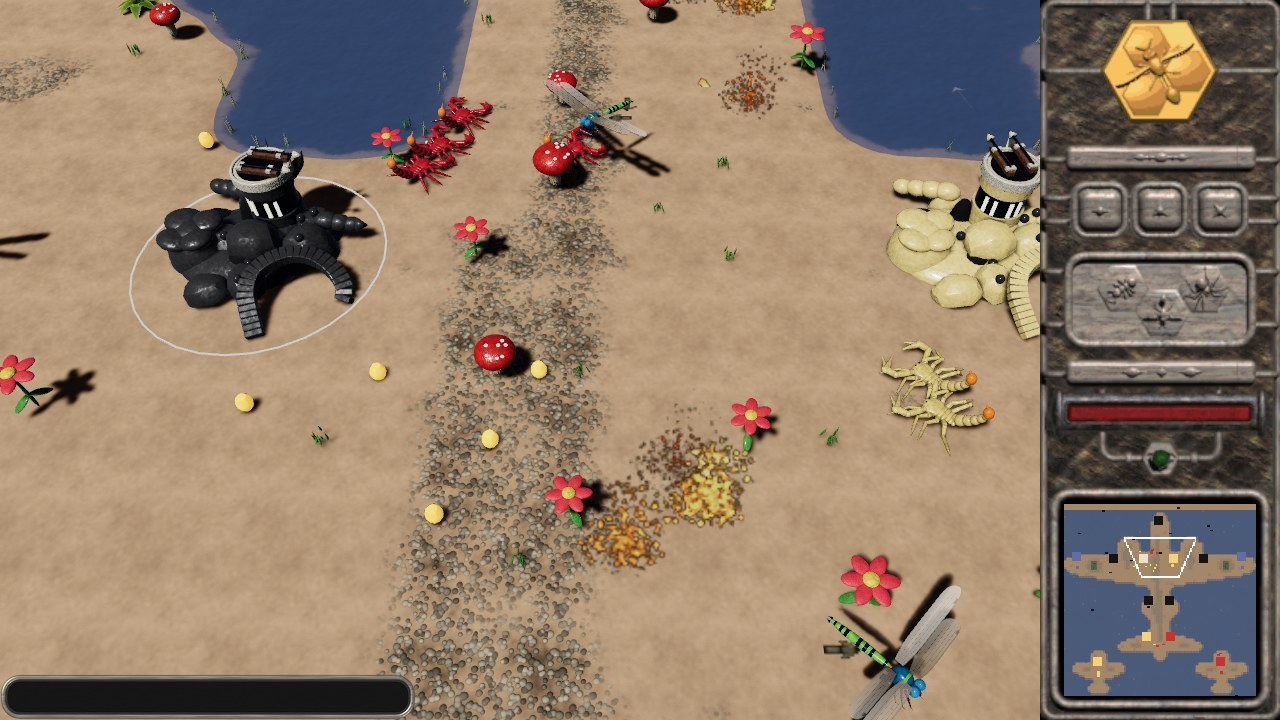
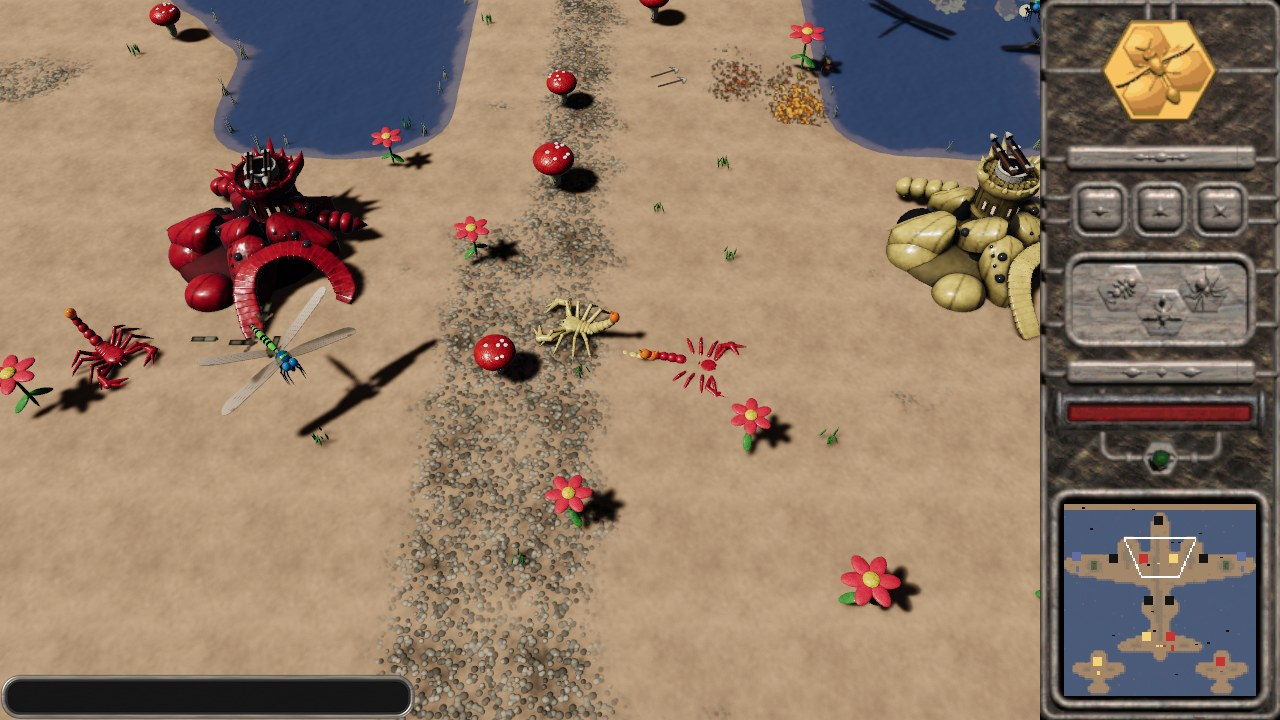
README: new screenshots with the rebuilt colonies and the new light

diff --git a/README.md b/README.md
@@ -3,10 +3,10 @@
 A faithful 3-D recreation of *Swarm Assault* (Gate 5 Creations, 1999), the real-time strategy
 game of warring bug colonies, rebuilt from scratch in Rust with [Bevy](https://bevy.org).
 
-![Level 56, Bomber Paradise: a fallen scorpion colony, scorpions fighting and Dragonflies bombing](docs/screenshots/redux/battle.jpg)
+![Level 56, Bomber Paradise: scorpions fight between their colonies while a Dragonfly bombs](docs/screenshots/redux/battle.jpg)
 
-*Level 56, Bomber Paradise: a scorpion colony has just fallen and its bits lie scattered for the
-taking, while Dragonflies make their bombing runs.*
+*Level 56, Bomber Paradise: scorpions clash between their two colonies while a Dragonfly makes its
+bombing run.*
 
 Five bug families fight over colonies across the original's levels. The rules, levels and
 interface are the original's; the battlefield is 3-D. Every bug, colony, turret, plant and prop is
@@ -91,8 +91,8 @@ taken with a copy installed.
 
 | | |
 |---|---|
-| ![A beetle colony and its turret, close up](docs/screenshots/redux/colony.jpg)<br>A beetle colony and its turret | ![Savage Scorpions against a pack of Black Widows beside a wasp colony](docs/screenshots/redux/candy.jpg)<br>A candy level: scorpions against Black Widows |
-| ![Lady Bugs fight a Black Widow between spider and beetle colonies](docs/screenshots/redux/everywhere.jpg)<br>Lady Bugs against a Black Widow | ![Popcorn Plant, Thorn Bush and Seed Ball above; Choc Freckle and Death Lollies below](docs/screenshots/redux/plants.jpg)<br>Creep plants: two Death Lollies have just gone off |
+| ![A beetle colony and its cannon, close up](docs/screenshots/redux/colony.jpg)<br>A beetle colony and its cannon | ![A wasp colony on a candy level, a Black Widow and an Assault Wasp](docs/screenshots/redux/candy.jpg)<br>A candy level: a wasp colony, a Black Widow and an Assault Wasp |
+| ![Lady Bugs fight Black Widows between spider and beetle colonies](docs/screenshots/redux/everywhere.jpg)<br>Lady Bugs against Black Widows | ![Popcorn Plant, Thorn Bush and Seed Ball above; Choc Freckle and Death Lollies below](docs/screenshots/redux/plants.jpg)<br>Creep plants: two Death Lollies have just gone off |
 
 ## Playing
 
